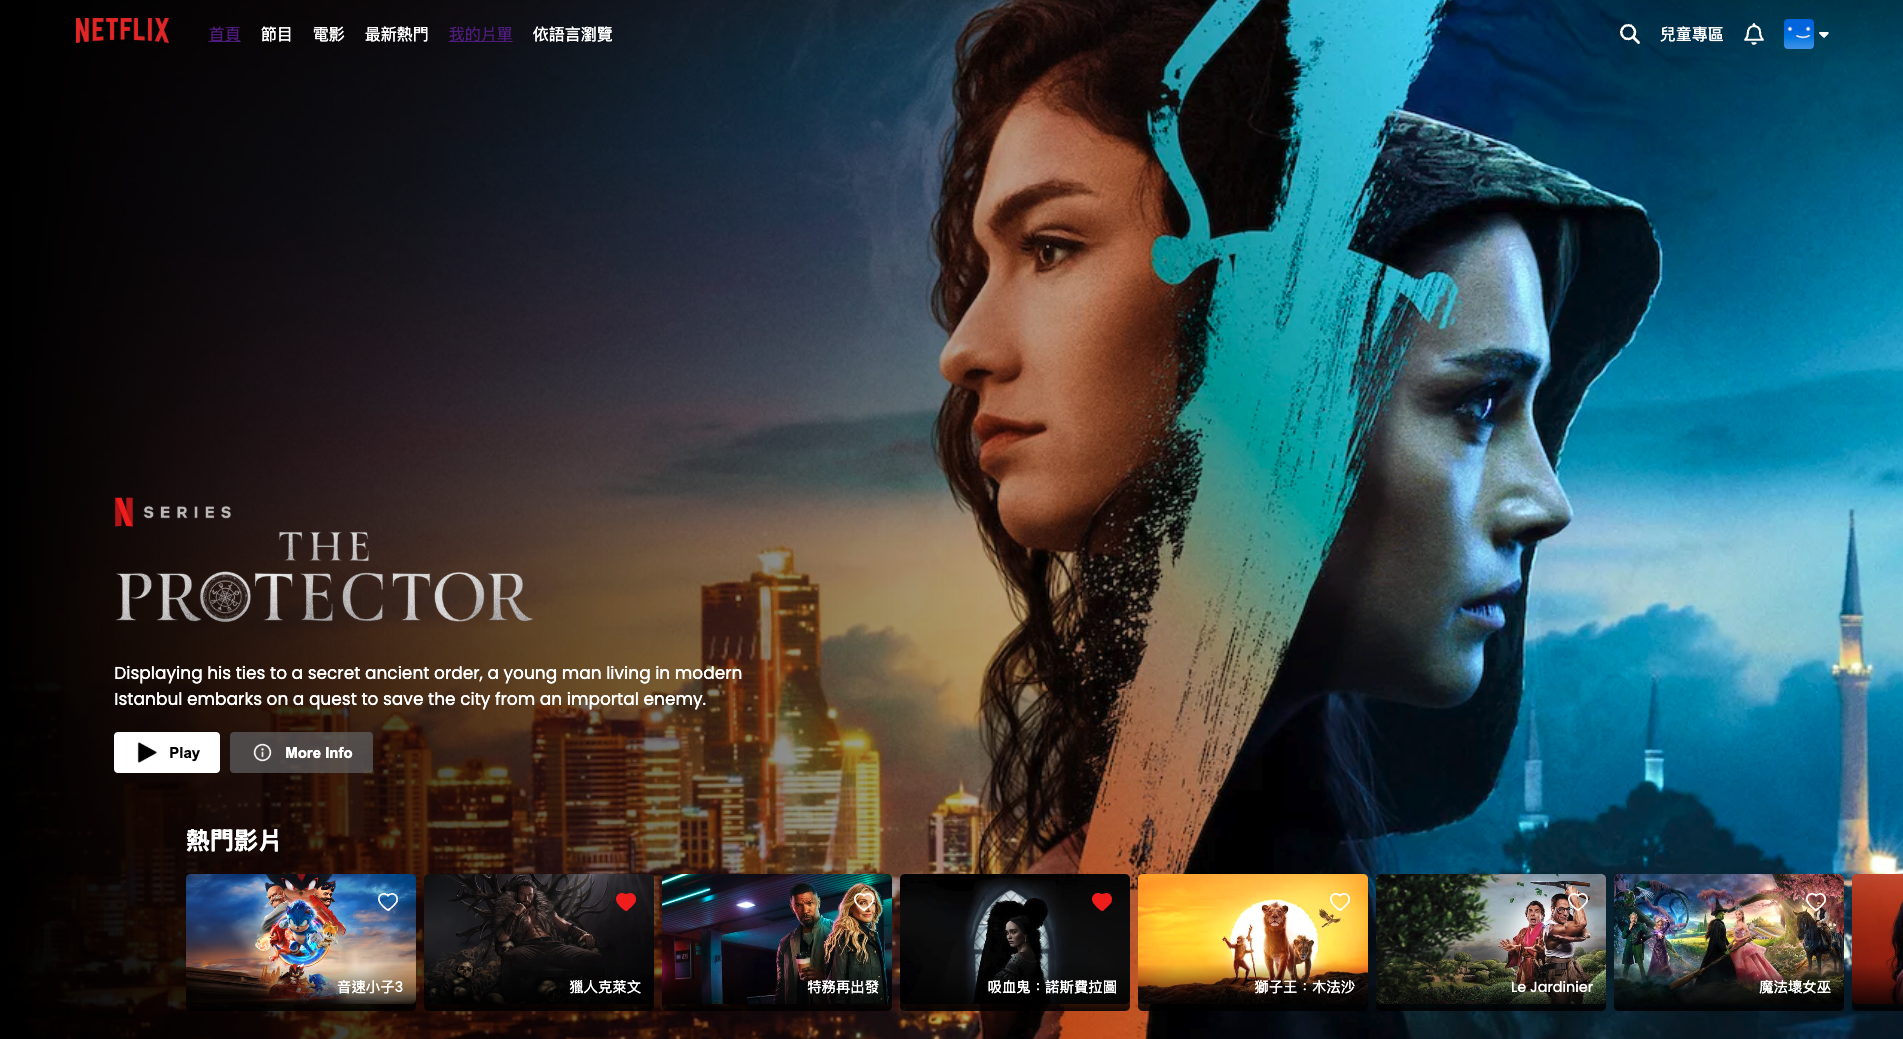
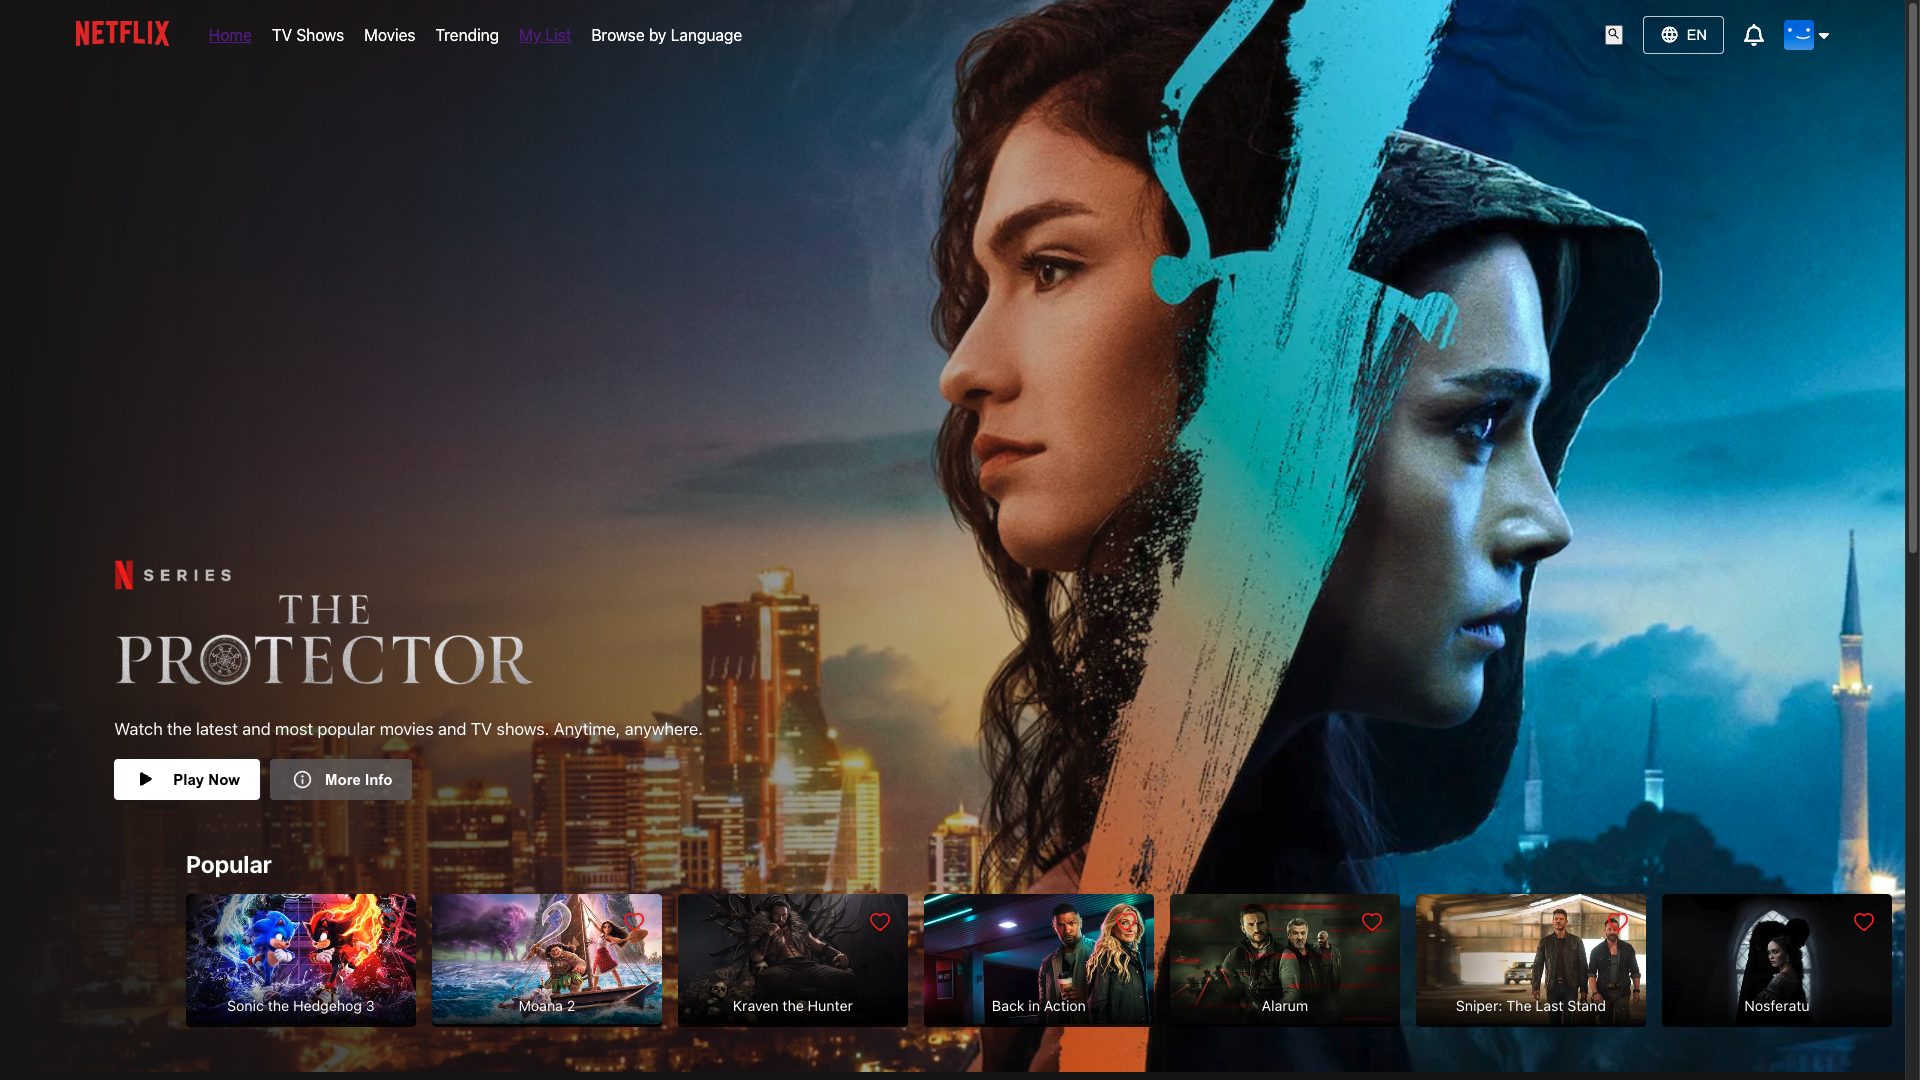
docs: update README with new screenshots and project structure

diff --git a/README.md b/README.md
@@ -2,16 +2,21 @@
 
 A full-stack Netflix clone built with the MERN stack (MongoDB, Express.js, React.js, Node.js), featuring user authentication, movie browsing, favorites management, and a comment system.
 
+🌐 [Live Demo](https://netflix-clone-hsuan.vercel.app/) | [API Documentation](https://github.com/HsuanChi1204/Netflix-clone#-api-endpoints) | [Backend Repository](https://github.com/HsuanChi1204/Netflix-clone)
+
 ## 📸 Screenshots
 
 ### Home Page
 ![Home Page](.github/assets/home-preview.png)
 
-### Movie Details with Comments
+### Movie Details
 ![Movie Details](.github/assets/movie-detail.png)
 
 ### Favorites List
 ![Favorites List](.github/assets/favorites-list.png)
+
+### Comments Function
+![Comments Function](.github/assets/comments-view.png)
 
 ## 🚀 Features
 
@@ -19,24 +24,28 @@ A full-stack Netflix clone built with the MERN stack (MongoDB, Express.js, React
   - JWT-based authentication
   - Secure password hashing
   - Protected routes
+  - Session management
 
 - **Movie Experience**
   - Browse movies by categories
   - Watch movie trailers
   - Search functionality
   - Responsive video player
+  - Multi-language support (English/Traditional Chinese)
 
 - **Interactive Features**
   - Add/remove favorites
   - Comment system with ratings
   - Personal watchlist
   - Dynamic UI updates
+  - Real-time language switching
 
 - **Modern UI/UX**
   - Netflix-like interface
   - Responsive design
   - Smooth animations
   - Loading states
+  - Error handling with toast notifications
 
 ## 🛠 Technology Stack
 
@@ -47,6 +56,7 @@ A full-stack Netflix clone built with the MERN stack (MongoDB, Express.js, React
 - **Axios** - HTTP client
 - **React Icons** - Icon components
 - **React Toastify** - Toast notifications
+- **i18next** - Internationalization
 
 ### Backend
 - **Node.js** - Runtime environment
@@ -61,6 +71,8 @@ A full-stack Netflix clone built with the MERN stack (MongoDB, Express.js, React
 - **Jest** - Testing
 - **GitHub Actions** - CI/CD
 - **ESLint** - Code linting
+- **Vercel** - Frontend deployment
+- **Railway** - Backend deployment
 
 ## 🚦 Getting Started
 
@@ -101,6 +113,7 @@ JWT_SECRET=your_jwt_secret
 
 # client/.env
 VITE_API_URL=http://localhost:5001
+VITE_TMDB_API_KEY=your_tmdb_api_key
 ```
 
 4. Start Development Servers
@@ -121,9 +134,11 @@ Netflix-clone/
 ├── client/                # Frontend React application
 │   ├── src/
 │   │   ├── components/    # Reusable components
-│   │   ├── pages/        # Page components
-│   │   ├── assets/       # Static assets
-│   │   └── App.jsx       # Main application
+│   │   ├── contexts/      # Context providers
+│   │   ├── pages/         # Page components
+│   │   ├── locales/       # Translation files
+│   │   ├── assets/        # Static assets
+│   │   └── App.jsx        # Main application
 │   └── package.json
 │
 ├── server/                # Backend Node.js application
@@ -132,7 +147,8 @@ Netflix-clone/
 │   │   ├── controllers/  # Request handlers
 │   │   ├── models/       # Database models
 │   │   ├── routes/       # API routes
-│   │   └── middlewares/  # Custom middlewares
+│   │   ├── middlewares/  # Custom middlewares
+│   │   └── index.js      # Entry point
 │   └── package.json
 │
 └── README.md
@@ -143,12 +159,13 @@ Netflix-clone/
 ### Authentication
 - `POST /api/auth/register` - Register new user
 - `POST /api/auth/login` - User login
-- `GET /api/auth/profile` - Get user profile
+- `GET /api/auth/me` - Get current user info
 
 ### Favorites
 - `GET /api/favorites` - Get user's favorites
 - `POST /api/favorites` - Add to favorites
 - `DELETE /api/favorites/:id` - Remove from favorites
+- `GET /api/favorites/check/:id` - Check if movie is favorited
 
 ### Comments
 - `GET /api/comments/:movieId` - Get movie comments
@@ -168,6 +185,7 @@ JWT_SECRET=your_jwt_secret
 ### Frontend
 ```env
 VITE_API_URL=http://localhost:5001
+VITE_TMDB_API_KEY=your_tmdb_api_key
 ```
 
 ## 🛡 Security Features
@@ -177,14 +195,17 @@ VITE_API_URL=http://localhost:5001
 - Input validation
 - XSS protection
 - CORS configuration
+- Rate limiting
 
 ## 🚧 Future Improvements
-- [ ] Add social authentication
-- [ ] Implement infinite scrolling
-- [ ] Add user profiles
-- [ ] Enhance search functionality
-- [ ] Add more interactive features
-- [ ] Implement real-time updates
+- [ ] Add social authentication (Google, Facebook)
+- [ ] Implement infinite scrolling for movie lists
+- [ ] Add user profiles with avatars
+- [ ] Enhance search with filters and sorting
+- [ ] Add movie recommendations
+- [ ] Implement watch history
+- [ ] Add email verification
+- [ ] Implement password reset
 
 ## 👥 Contributing
 Contributions are welcome! Please feel free to submit a Pull Request.
@@ -195,6 +216,8 @@ This project is licensed under the MIT License - see the [LICENSE](LICENSE) file
 ## 🙏 Acknowledgments
 - [TMDB API](https://www.themoviedb.org/documentation/api) for movie data
 - [Netflix](https://www.netflix.com) for design inspiration
+- [Vercel](https://vercel.com) for frontend hosting
+- [Railway](https://railway.app) for backend hosting
 
 ---
 Created by [HsuanChi1204](https://github.com/HsuanChi1204)
